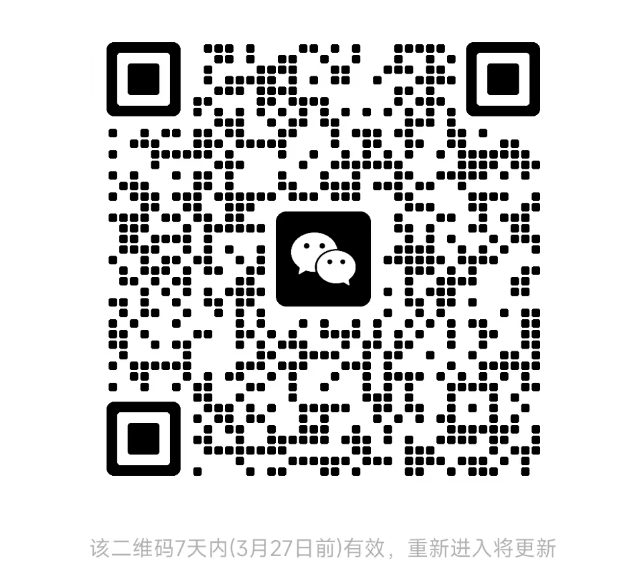
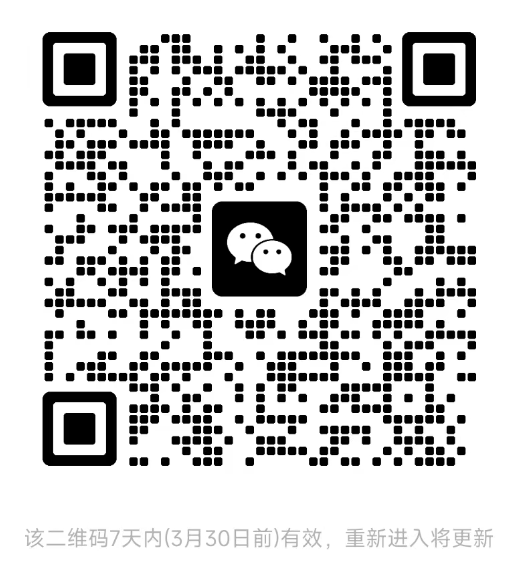
fix: 更改为 laf ai

diff --git a/src/views/index.vue b/src/views/index.vue
@@ -292,7 +292,7 @@ function judgeUp() {
           <el-popover placement="bottom" :width="300" trigger="click">
             <el-image style="width: 100%; height: 100%" :src="wx" />
             <template #reference>
-              <el-button class="m-2">微信群</el-button>
+              <el-button class="m-2">交流群</el-button>
             </template>
           </el-popover>
           <!-- ------------------------------------------ -->
@@ -410,21 +410,31 @@ function judgeUp() {
 
     <!-- ------------------------------------------------------------ -->
     <div v-show="!list.length" class="begintitle">
-      <h1 style="font-family: Cursive">左风的智能机器人</h1>
-      <div class="sponsor">
-        基于 laf 云开发：
-        <a style="color: #01a99d" href="https://laf.dev/" target="_blank">laf.dev</a>
-      </div>
-      <div class="sponsor">此产品和 laf 达成深度合作，我们可以提供专业的私有化部署。</div>
-      <div class="sponsor">
-        如果您和您的公司需要私有化部署，点击
+      <h1 style="font-family: Cursive; font-size: 50px">Laf Ai</h1>
+
+      <div style="margin-top: 80px; text-indent: 20px">
+        如果想寻求合作或深度交流，可
         <a
-          style="color: #01a99d"
+          style="color: #ff0405"
           href="https://x85clg-wenjuan.site.laf.dev/#/pages/form/index?id=6412c9980ac642ce124ad116"
           target="_blank"
-          >这里</a
+          >点击</a
         >
-        留下您的信息，我们商务会在第一时间联系您。
+        留下信息<span v-if="isMobile === true">!</span>
+        <span v-if="isMobile === false">，我们顾问会第一时间联系您!</span>
+      </div>
+
+      <div style="margin-top: 10px">商务洽谈:18629359689</div>
+
+      <div class="lafText" v-if="isMobile === false">
+        <div style="text-align: center">
+          <a href="https://docs.sealos.io/zh-Hans/" style="color: #ff0405">Sealos</a>
+          <span> 开源云操作系统， </span>
+          <a href="https://laf.dev/" style="color: #ff0405">Laf</a>
+          <span> 开源函数计算平台 </span>
+        </div>
+        <div>快速交付分布式应用、小时级搭建个性化云系统、分钟级构建中间件服务</div>
+        <div>使用公有云IaaS的可降本50%，基于Sealos自建私有云可降本80%！</div>
       </div>
     </div>
 
@@ -572,9 +582,7 @@ function judgeUp() {
   word-wrap: break-word;
   padding: 0 0 10% 0;
 }
-.sponsor {
-  font-size: 18px;
-}
+
 .inputbox button {
   margin-left: 15px;
   width: 56px;
@@ -761,6 +769,12 @@ textarea {
   width: 80px;
   line-height: 40px;
 }
+.contentText {
+}
+.lafText {
+  margin-top: 50px;
+  color: #56585d;
+}
 
 :deep(.el-dialog__body) {
   padding: 0;
@@ -800,9 +814,6 @@ textarea {
     text-align: center;
     font-size: 12px;
     color: #606266;
-  }
-  .sponsor {
-    font-size: 14px;
   }
 }
 </style>

diff --git a/index.html b/index.html
@@ -4,7 +4,7 @@
     <meta charset="UTF-8" />
     <link rel="icon" href="/logo.jpg" />
     <meta name="viewport" content="width=device-width, initial-scale=1.0" />
-    <title>左风的智能机器人</title>
+    <title>Laf Ai</title>
   </head>
   <body>
     <div id="app"></div>
